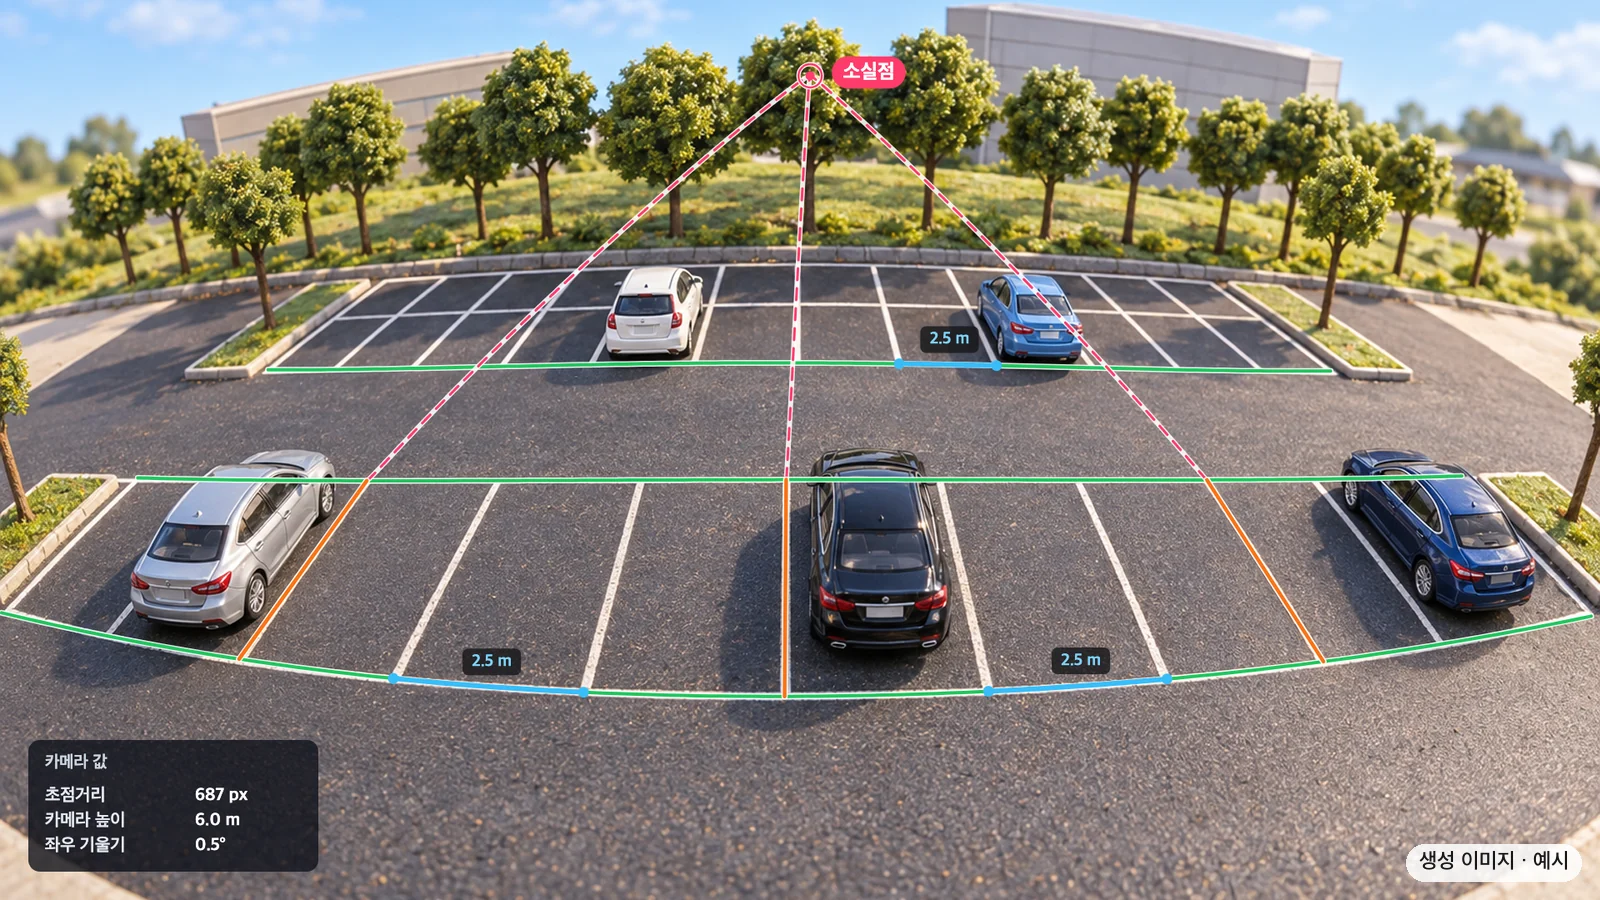
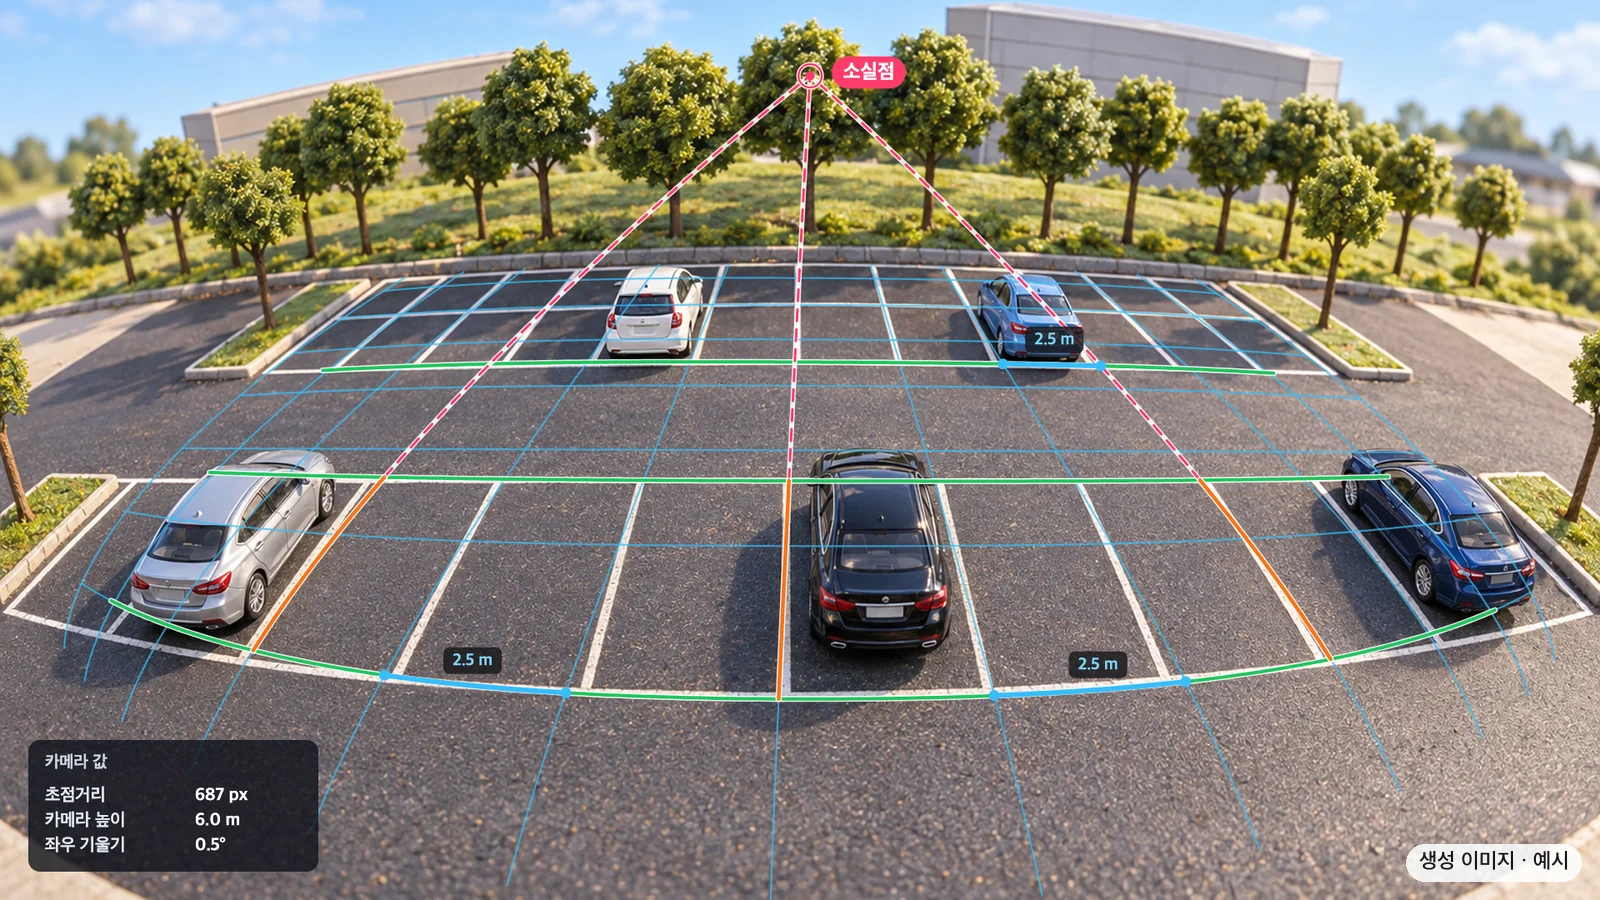
2.5D 자료 그림에 차량을 채워 겹침·가림을 보이고 차마다 하단면, 라벨링 도구는 바닥에 붙는 매끈한 보정 격자
2.5D 그림은 같은 디오라마 주차장에 차를 더하는 편집으로 39대(통로의 승합차·SUV·트럭, 지붕만 보이는 맨 뒷줄 포함)를 채워 서로 겹치고 가리게 했습니다. 차마다 그림 속 바퀴·범퍼 바닥 자리로 하단면을 잡아, 보이는 변은 실선, 차체나 더 가까운 차에 가린 변은 점선으로 그렸습니다. 앞줄 빈 칸은 통로 차에 가린 곳을 빼고 칠합니다. 라벨링 도구 두 그림의 격자·보정선은 주차선에 꼭 맞추지 않고, 그림에 맞춘 어안 카메라 모형으로 바닥에 붙어 보이게 다시 그렸습니다. 그림 설명은 줄을 고르게 나누고 가운뎃점 낱말을 끊지 않습니다.

diff --git a/work/labeling-tool/index.html b/work/labeling-tool/index.html
@@ -19,7 +19,7 @@
 <link rel="icon" href="/favicon.svg" type="image/svg+xml">
 <link rel="apple-touch-icon" href="/apple-touch-icon.png">
 <link rel="preload" href="/assets/fonts/DoHyeon.woff2" as="font" type="font/woff2" crossorigin>
-<link rel="stylesheet" href="/assets/site.css?v=45849a96">
+<link rel="stylesheet" href="/assets/site.css?v=15692045">
 <script src="/assets/shots.js?v=93bcadc7" defer></script>
 <script src="/assets/light.js?v=543faa9f" defer></script>
 <script src="/assets/grab.js?v=ce9a395d" defer></script>
@@ -95,8 +95,8 @@
     <section class="sec" aria-labelledby="h-media">
       <h2 id="h-media">자료</h2>
       <ul class="shots shots--wide shots--work">
-        <li><img src="/assets/img/work/labeling-tool/labeling-calib.webp" width="1600" height="900" alt="미니어처 디오라마 주차장을 높이 단 CCTV 광각 렌즈로 본 그림 위에 주차면 앞뒤 선을 따라 그은 가로선(초록), 주차면 사이 세로선(주황), 2.5 m 축척이 있고, 세로선을 렌즈 휨대로 이어 그린 분홍 점선 셋이 위쪽 나무 줄 근처의 소실점 한 곳으로 모인다. 왼쪽 아래에 보정한 카메라 값(초점거리·카메라 높이·좌우 기울기)이 있다. 실제 장소가 아니라 만든 이미지다." loading="lazy"><p class="shots__cap">바닥 주차선과 소실점 기반 초점거리·카메라 높이·기울기 보정<span class="shots__note">생성 이미지</span></p></li>
-<li><img src="/assets/img/work/labeling-tool/labeling-ground.webp" width="1600" height="900" alt="같은 미니어처 주차장 바닥에 보정값으로 2.5 m 간격 격자를 올린 그림. 격자가 광각 렌즈를 따라 휘면서 주차선과 나란히 놓이고, 차마다 바닥에 닿는 하단면 라벨이 초록 사각형으로 그려져 있다. 실제 장소가 아니라 만든 이미지다." loading="lazy"><p class="shots__cap">보정값으로 바닥에 올린 2.5 m 격자와 차량 하단면 라벨(초록)<span class="shots__note">생성 이미지</span></p></li>
+        <li><img src="/assets/img/work/labeling-tool/labeling-calib.webp" width="1600" height="900" alt="미니어처 디오라마 주차장을 높이 단 CCTV 광각 렌즈로 본 그림 위에 보정한 카메라로 그린 옅은 바닥 격자, 주차면 앞뒤를 따라 그은 가로선(초록), 주차면 사이 세로선(주황), 2.5 m 축척이 있고, 세로선을 렌즈 휨대로 이어 그린 분홍 점선 셋이 위쪽 나무 줄 근처의 소실점 한 곳으로 모인다. 왼쪽 아래에 보정한 카메라 값(초점거리·카메라 높이·좌우 기울기)이 있다. 실제 장소가 아니라 만든 이미지다." loading="lazy"><p class="shots__cap">바닥 주차선과 소실점 기반 <span class="nobr">초점거리·카메라</span> <span class="nobr">높이·기울기</span> 보정<span class="shots__note">생성 이미지</span></p></li>
+<li><img src="/assets/img/work/labeling-tool/labeling-ground.webp" width="1600" height="900" alt="같은 미니어처 주차장 바닥에 보정한 카메라로 2.5 m 간격 격자를 올린 그림. 격자가 광각 렌즈를 따라 휘며 바닥에 붙어 보이고, 차마다 바닥에 닿는 하단면 라벨이 초록 사각형으로 그려져 있다. 실제 장소가 아니라 만든 이미지다." loading="lazy"><p class="shots__cap">보정값으로 바닥에 올린 2.5 m 격자와 차량 하단면 라벨(초록)<span class="shots__note">생성 이미지</span></p></li>
       </ul>
     </section>
     <section class="sec" aria-labelledby="h-others">

diff --git a/work/parking-ai/index.html b/work/parking-ai/index.html
@@ -19,7 +19,7 @@
 <link rel="icon" href="/favicon.svg" type="image/svg+xml">
 <link rel="apple-touch-icon" href="/apple-touch-icon.png">
 <link rel="preload" href="/assets/fonts/DoHyeon.woff2" as="font" type="font/woff2" crossorigin>
-<link rel="stylesheet" href="/assets/site.css?v=45849a96">
+<link rel="stylesheet" href="/assets/site.css?v=15692045">
 <script src="/assets/shots.js?v=93bcadc7" defer></script>
 <script src="/assets/light.js?v=543faa9f" defer></script>
 <script src="/assets/grab.js?v=ce9a395d" defer></script>
@@ -101,7 +101,7 @@
     <section class="sec" aria-labelledby="h-media">
       <h2 id="h-media">자료</h2>
       <ul class="shots shots--wide shots--work">
-        <li><img src="/assets/img/work/parking-ai/parking-occupancy.webp" width="1600" height="900" alt="미니어처 디오라마로 만든 야외 주차장을 높이 단 CCTV 광각 렌즈로 내려다본 그림. 앞쪽 두 줄의 주차면이 칸마다 그려져 있고, 차가 선 칸은 빨강, 빈 칸은 초록으로 칠해져 있다. 통로를 지나는 차는 어느 칸에도 들지 않아 세지 않는다. 실제 장소가 아니라 만든 이미지다." loading="lazy"><p class="shots__cap">차 하단면 기준 주차면별 점유(빨강)·빈 칸(초록) 구분<span class="shots__note">생성 이미지</span></p></li>
+        <li><img src="/assets/img/work/parking-ai/parking-occupancy.webp" width="1600" height="900" alt="미니어처 디오라마로 만든 빽빽한 야외 주차장을 높이 단 CCTV 광각 렌즈로 내려다본 그림. 주차면을 채운 차들 사이로 통로에 승합차·SUV·트럭이 서 있어 차들이 서로 겹치고 가린다. 차마다 바닥에 닿는 하단면이 노란 사각형으로 그려져 있고, 보이는 변은 실선, 차체나 다른 차에 가린 변은 점선이다. 앞줄 주차면은 차가 선 칸이 빨강, 빈 칸 하나가 초록이며, 빈 칸 일부는 통로의 SUV에 가려 있다. 실제 장소가 아니라 만든 이미지다." loading="lazy"><p class="shots__cap">차량별 하단면(가려진 변은 점선)과 주차면 <span class="nobr">점유(빨강)·빈</span> 칸(초록)<span class="shots__note">생성 이미지</span></p></li>
       </ul>
     </section>
     <section class="sec" aria-labelledby="h-others">

diff --git a/work/safety-vision/index.html b/work/safety-vision/index.html
@@ -19,7 +19,7 @@
 <link rel="icon" href="/favicon.svg" type="image/svg+xml">
 <link rel="apple-touch-icon" href="/apple-touch-icon.png">
 <link rel="preload" href="/assets/fonts/DoHyeon.woff2" as="font" type="font/woff2" crossorigin>
-<link rel="stylesheet" href="/assets/site.css?v=45849a96">
+<link rel="stylesheet" href="/assets/site.css?v=15692045">
 <script src="/assets/shots.js?v=93bcadc7" defer></script>
 <script src="/assets/light.js?v=543faa9f" defer></script>
 <script src="/assets/grab.js?v=ce9a395d" defer></script>
@@ -95,7 +95,7 @@
     <section class="sec" aria-labelledby="h-media">
       <h2 id="h-media">자료</h2>
       <ul class="shots shots--wide shots--work">
-        <li><img src="/assets/img/work/safety-vision/safety-helmet.webp" width="1536" height="864" alt="산업 시설 마당을 높은 곳에서 내려다본 CCTV 화면 예시. 안전모를 쓴 작업자는 초록 helmet 상자, 쓰지 않은 작업자는 주황 head 상자로 표시된다. 실제 현장이 아니라 만든 이미지다." loading="lazy"><p class="shots__cap">안전모 착용(helmet)·미착용(head) 감지<span class="shots__note">생성 이미지</span></p></li>
+        <li><img src="/assets/img/work/safety-vision/safety-helmet.webp" width="1536" height="864" alt="산업 시설 마당을 높은 곳에서 내려다본 CCTV 화면 예시. 안전모를 쓴 작업자는 초록 helmet 상자, 쓰지 않은 작업자는 주황 head 상자로 표시된다. 실제 현장이 아니라 만든 이미지다." loading="lazy"><p class="shots__cap">안전모 <span class="nobr">착용(helmet)·미착용(head)</span> 감지<span class="shots__note">생성 이미지</span></p></li>
 <li><img src="/assets/img/work/safety-vision/safety-intrude.webp" width="1536" height="864" alt="저장 탱크 둘레의 출입 금지 구역이 청록 ROI로 칠해진 CCTV 화면 예시. 구역 안의 작업자는 빨간 trespass 상자, 바깥을 걷는 작업자는 person 상자로 표시된다. 실제 현장이 아니라 만든 이미지다." loading="lazy"><p class="shots__cap">출입 금지 구역(ROI) 침입 감지<span class="shots__note">생성 이미지</span></p></li>
       </ul>
     </section>

diff --git a/mylittlecloset/index.html b/mylittlecloset/index.html
@@ -19,7 +19,7 @@
 <link rel="icon" href="/favicon.svg" type="image/svg+xml">
 <link rel="apple-touch-icon" href="/apple-touch-icon.png">
 <link rel="preload" href="/assets/fonts/DoHyeon.woff2" as="font" type="font/woff2" crossorigin>
-<link rel="stylesheet" href="/assets/site.css?v=45849a96">
+<link rel="stylesheet" href="/assets/site.css?v=15692045">
 <script src="/assets/tryon.js?v=2ae6a784" defer></script>
 <script src="/assets/shots.js?v=93bcadc7" defer></script>
 <script src="/assets/light.js?v=543faa9f" defer></script>

diff --git a/pocketpet/index.html b/pocketpet/index.html
@@ -19,7 +19,7 @@
 <link rel="icon" href="/favicon.svg" type="image/svg+xml">
 <link rel="apple-touch-icon" href="/apple-touch-icon.png">
 <link rel="preload" href="/assets/fonts/DoHyeon.woff2" as="font" type="font/woff2" crossorigin>
-<link rel="stylesheet" href="/assets/site.css?v=45849a96">
+<link rel="stylesheet" href="/assets/site.css?v=15692045">
 <script src="/assets/pet.js?v=5825880c" defer></script>
 <script src="/assets/petmake.js?v=aa2c6083" defer></script>
 <script src="/assets/shots.js?v=93bcadc7" defer></script>

diff --git a/ganadiya/index.html b/ganadiya/index.html
@@ -19,7 +19,7 @@
 <link rel="icon" href="/favicon.svg" type="image/svg+xml">
 <link rel="apple-touch-icon" href="/apple-touch-icon.png">
 <link rel="preload" href="/assets/fonts/DoHyeon.woff2" as="font" type="font/woff2" crossorigin>
-<link rel="stylesheet" href="/assets/site.css?v=45849a96">
+<link rel="stylesheet" href="/assets/site.css?v=15692045">
 <script src="/assets/shots.js?v=93bcadc7" defer></script>
 <script src="/assets/light.js?v=543faa9f" defer></script>
 <script src="/assets/grab.js?v=ce9a395d" defer></script>

diff --git a/index.html b/index.html
@@ -19,7 +19,7 @@
 <link rel="icon" href="/favicon.svg" type="image/svg+xml">
 <link rel="apple-touch-icon" href="/apple-touch-icon.png">
 <link rel="preload" href="/assets/fonts/DoHyeon.woff2" as="font" type="font/woff2" crossorigin>
-<link rel="stylesheet" href="/assets/site.css?v=45849a96">
+<link rel="stylesheet" href="/assets/site.css?v=15692045">
 <script src="/assets/wall.js?v=b21207d9" defer></script>
 <script src="/assets/light.js?v=543faa9f" defer></script>
 <script src="/assets/aisle.js?v=ea7b5d88" defer></script>

diff --git a/moacam/index.html b/moacam/index.html
@@ -19,7 +19,7 @@
 <link rel="icon" href="/favicon.svg" type="image/svg+xml">
 <link rel="apple-touch-icon" href="/apple-touch-icon.png">
 <link rel="preload" href="/assets/fonts/DoHyeon.woff2" as="font" type="font/woff2" crossorigin>
-<link rel="stylesheet" href="/assets/site.css?v=45849a96">
+<link rel="stylesheet" href="/assets/site.css?v=15692045">
 <script src="/assets/shots.js?v=93bcadc7" defer></script>
 <script src="/assets/light.js?v=543faa9f" defer></script>
 <script src="/assets/grab.js?v=ce9a395d" defer></script>

diff --git a/scorelab/index.html b/scorelab/index.html
@@ -19,7 +19,7 @@
 <link rel="icon" href="/favicon.svg" type="image/svg+xml">
 <link rel="apple-touch-icon" href="/apple-touch-icon.png">
 <link rel="preload" href="/assets/fonts/DoHyeon.woff2" as="font" type="font/woff2" crossorigin>
-<link rel="stylesheet" href="/assets/site.css?v=45849a96">
+<link rel="stylesheet" href="/assets/site.css?v=15692045">
 <script src="/assets/shots.js?v=93bcadc7" defer></script>
 <script src="/assets/light.js?v=543faa9f" defer></script>
 <script src="/assets/grab.js?v=ce9a395d" defer></script>

diff --git a/work/risk-review/index.html b/work/risk-review/index.html
@@ -19,7 +19,7 @@
 <link rel="icon" href="/favicon.svg" type="image/svg+xml">
 <link rel="apple-touch-icon" href="/apple-touch-icon.png">
 <link rel="preload" href="/assets/fonts/DoHyeon.woff2" as="font" type="font/woff2" crossorigin>
-<link rel="stylesheet" href="/assets/site.css?v=45849a96">
+<link rel="stylesheet" href="/assets/site.css?v=15692045">
 <script src="/assets/shots.js?v=93bcadc7" defer></script>
 <script src="/assets/light.js?v=543faa9f" defer></script>
 <script src="/assets/grab.js?v=ce9a395d" defer></script>

diff --git a/work/senior-zone/index.html b/work/senior-zone/index.html
@@ -19,7 +19,7 @@
 <link rel="icon" href="/favicon.svg" type="image/svg+xml">
 <link rel="apple-touch-icon" href="/apple-touch-icon.png">
 <link rel="preload" href="/assets/fonts/DoHyeon.woff2" as="font" type="font/woff2" crossorigin>
-<link rel="stylesheet" href="/assets/site.css?v=45849a96">
+<link rel="stylesheet" href="/assets/site.css?v=15692045">
 <script src="/assets/shots.js?v=93bcadc7" defer></script>
 <script src="/assets/light.js?v=543faa9f" defer></script>
 <script src="/assets/grab.js?v=ce9a395d" defer></script>

diff --git a/404.html b/404.html
@@ -19,7 +19,7 @@
 <link rel="icon" href="/favicon.svg" type="image/svg+xml">
 <link rel="apple-touch-icon" href="/apple-touch-icon.png">
 <link rel="preload" href="/assets/fonts/DoHyeon.woff2" as="font" type="font/woff2" crossorigin>
-<link rel="stylesheet" href="/assets/site.css?v=45849a96">
+<link rel="stylesheet" href="/assets/site.css?v=15692045">
 <script src="/assets/wall.js?v=b21207d9" defer></script>
 <script src="/assets/light.js?v=543faa9f" defer></script>
 </head>
